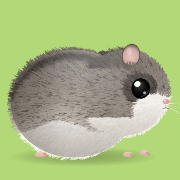
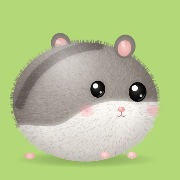
햄스터 키우기: 징그럽지 않게 말랑한 동글 햄스터로 다시 그림
Claude-Session: https://claude.ai/code/session_01Q9qMws47ZWFRTiFuZs99B2

diff --git a/hamster/index.html b/hamster/index.html
@@ -202,161 +202,150 @@ function softShadow(g, x, y, rx, ry, a) {
   g.fillStyle = gr; g.beginPath(); g.arc(0, 0, rx, 0, Math.PI * 2); g.fill(); g.restore();
 }
 
-/* 드워프 햄스터 (오른쪽을 봄). variant: open | sleep | cheek */
+/* 말랑한 3D 느낌의 동글 햄스터 (오른쪽 앞을 봄). variant: open | sleep | cheek */
 function drawHamster(variant) {
   const R = 2, [c, g] = mkCanvas(300, 220, R);
-  const rnd = rng(1234);
-  softShadow(g, 152, 197, 100, 13, .32);
-
-  const BX = 140, BY = 126, BRX = 84, BRY = 72;     // 몸
-  const HX = 206, HY = 112, HRX = 60, HRY = 57;     // 머리
-  const PX = 232, PY = 148, PRX = 31, PRY = 24;     // 볼주머니
+  const rnd = rng(99);
   const cheek = variant === 'cheek';
-  const sil = new Path2D();
-  sil.ellipse(BX, BY, BRX, BRY, 0, 0, Math.PI * 2);
-  sil.ellipse(HX, HY, HRX, HRY, -.08, 0, Math.PI * 2);
-  if (cheek) sil.ellipse(PX, PY, PRX, PRY, -.2, 0, Math.PI * 2);
-  const inside = (x, y) => g.isPointInPath(sil, x * R, y * R);
-  const inHead = (x, y) => ((x - HX) / HRX) ** 2 + ((y - HY) / HRY) ** 2 < 1;
-  const inPouch = (x, y) => cheek && ((x - PX) / PRX) ** 2 + ((y - PY) / PRY) ** 2 < 1;
+  softShadow(g, 150, 205, 100, 12, .3);
 
-  const C = {
-    stripe: [58, 52, 49], back: [122, 113, 105], backL: [158, 149, 139], side: [205, 198, 189],
-    white: [246, 243, 238], face: [128, 119, 111], muzzle: [242, 238, 232], eyeRing: [84, 77, 72]
-  };
-  function furCol(x, y) {
-    if (inPouch(x, y)) return mixc(C.muzzle, C.side, Math.max(0, (PY - y) / PRY) * .5);
-    const topBody = BY - BRY * Math.sqrt(Math.max(0, 1 - ((x - BX) / BRX) ** 2));
-    const belly = 156 + 8 * Math.sin((x - 40) / 18) - Math.max(0, x - 188) * .45;
-    if (inHead(x, y) && x > 160) {
-      const mz = Math.hypot((x - 248) / 1.05, (y - 137) / .85);
-      if (mz < 27 || y > 144) return C.muzzle;
-      if (Math.hypot((x - 229) / 1.15, y - 106) < 20) return C.eyeRing;
-      if (y < 80 && x < 224) return mixc(C.stripe, C.face, (x - 160) / 64);
-      return mixc(C.face, C.backL, Math.min(1, Math.max(0, (y - 70) / 64)) * .7);
-    }
-    if (y > belly) return C.white;
-    const d = y - topBody;
-    if (d > 3 && d < 17 && x < 188) return mixc(C.stripe, C.back, Math.abs(d - 10) / 9);
-    const t = Math.min(1, Math.max(0, d / (belly - topBody)));
-    return t > .72 ? mixc(C.backL, C.side, (t - .72) / .28) : mixc(C.back, C.backL, t / .72);
-  }
+  const ball = new Path2D();
+  ball.ellipse(148, 124, 102, 84, 0, 0, Math.PI * 2);
+  if (cheek) { ball.ellipse(232, 150, 34, 28, -.3, 0, Math.PI * 2); ball.ellipse(140, 152, 30, 26, .3, 0, Math.PI * 2); }
 
-  // 뒤쪽 귀 (머리 털 뒤로 숨게 먼저)
-  const ear = (x, y, s, rot, back) => {
+  // 귀 (뒤쪽 귀는 몸보다 먼저)
+  const ear = (x, y, s, rot) => {
     g.save(); g.translate(x, y); g.rotate(rot);
-    const gr = g.createRadialGradient(0, 3, 1, 0, 0, 15 * s);
-    gr.addColorStop(0, back ? '#c4a6a0' : '#e8c3bb'); gr.addColorStop(.62, back ? '#a08d87' : '#cfaaa2'); gr.addColorStop(1, '#5f5550');
-    g.fillStyle = gr; g.beginPath(); g.ellipse(0, 0, 11 * s, 14.5 * s, 0, 0, Math.PI * 2); g.fill();
-    g.strokeStyle = 'rgba(60,52,48,.55)'; g.lineWidth = 1.3; g.stroke();
-    g.fillStyle = 'rgba(255,255,255,.25)'; g.beginPath(); g.ellipse(-3 * s, -5 * s, 3 * s, 5 * s, -.3, 0, Math.PI * 2); g.fill();
+    let gr = g.createRadialGradient(-2, -3, 1, 0, 0, 17 * s);
+    gr.addColorStop(0, '#a49a92'); gr.addColorStop(1, '#7c736c');
+    g.fillStyle = gr; g.beginPath(); g.ellipse(0, 0, 15 * s, 17 * s, 0, 0, Math.PI * 2); g.fill();
+    gr = g.createRadialGradient(0, 2, 1, 0, 2, 11 * s);
+    gr.addColorStop(0, '#f6c9c4'); gr.addColorStop(1, '#e3a8a2');
+    g.fillStyle = gr; g.beginPath(); g.ellipse(0, 2.5 * s, 9.5 * s, 11.5 * s, 0, 0, Math.PI * 2); g.fill();
+    g.fillStyle = 'rgba(255,255,255,.4)'; g.beginPath(); g.ellipse(-3 * s, -3 * s, 3 * s, 4.5 * s, -.3, 0, Math.PI * 2); g.fill();
     g.restore();
   };
-  ear(180, 68, .85, -.55, true);
+  ear(114, 42, .92, -.4);
 
-  // 바탕색 (털 사이 틈 메우기)
-  for (let y = 40; y < 205; y += 2) for (let x = 30; x < 290; x += 2) {
-    if (!inside(x + 1, y + 1)) continue;
-    g.fillStyle = rgba(furCol(x + 1, y + 1)); g.fillRect(x, y, 2.3, 2.3);
-  }
-  // 털
-  const flow = (x, y) => {
-    if (inPouch(x, y)) { let dx = x - (PX - 6), dy = y - (PY - 4); const l = Math.hypot(dx, dy) || 1; return [dx / l, dy / l]; }
-    if (inHead(x, y) && x > 164) { let dx = x - 258, dy = y - 124; const l = Math.hypot(dx, dy) || 1; return [dx / l, dy / l]; }
-    let dx = -1, dy = (y - BY) / BRY * .95; const l = Math.hypot(dx, dy); return [dx / l, dy / l];
-  };
-  g.lineCap = 'round';
-  for (let i = 0; i < 26000; i++) {
-    const x = 30 + rnd() * 262, y = 40 + rnd() * 165;
-    if (!inside(x, y)) continue;
-    let col = furCol(x, y);
-    const j = (rnd() - .5) * 30; col = col.map(v => Math.max(0, Math.min(255, v + j)));
-    if (rnd() < .14 && col[0] < 215) col = col.map(v => v * .58);
-    const [dx, dy] = flow(x, y);
-    const len = 2.5 + rnd() * 5, bend = (rnd() - .5) * 1.6;
-    g.strokeStyle = rgba(col, .5 + rnd() * .45); g.lineWidth = .55 + rnd() * .7;
-    g.beginPath(); g.moveTo(x, y);
-    g.quadraticCurveTo(x + dx * len * .5 - dy * bend, y + dy * len * .5 + dx * bend, x + dx * len, y + dy * len); g.stroke();
-  }
-  // 바깥쪽 보송보송한 털
-  const edge = (cx, cy, rx, ry, n, others, back) => {
-    for (let k = 0; k < n; k++) {
-      const t = rnd() * Math.PI * 2, ex = cx + rx * Math.cos(t), ey = cy + ry * Math.sin(t);
-      if (ey > 188 || others.some(o => o(ex, ey))) continue;
-      const nx = Math.cos(t) / rx, ny = Math.sin(t) / ry, nl = Math.hypot(nx, ny), ox = nx / nl, oy = ny / nl;
-      const sx = ex - ox * 3, sy = ey - oy * 3, col = furCol(sx, sy), len = 2.5 + rnd() * 3.5;
-      const bx = back ? ox * .75 - .55 : ox, by = oy;
-      g.strokeStyle = rgba(col.map(v => Math.min(255, v + 8)), .6); g.lineWidth = .6 + rnd() * .6;
-      g.beginPath(); g.moveTo(sx, sy); g.quadraticCurveTo(sx + bx * len * .6 + (rnd() - .5), sy + by * len * .6, sx + bx * len, sy + by * len); g.stroke();
-    }
-  };
-  const inB = (x, y) => ((x - BX) / BRX) ** 2 + ((y - BY) / BRY) ** 2 < .93;
-  const inH = (x, y) => ((x - HX) / HRX) ** 2 + ((y - HY) / HRY) ** 2 < .93;
-  const inP = (x, y) => cheek && ((x - PX) / PRX) ** 2 + ((y - PY) / PRY) ** 2 < .93;
-  edge(BX, BY, BRX, BRY, 650, [inH, inP], true);
-  edge(HX, HY, HRX, HRY, 520, [inB, inP], false);
-  if (cheek) edge(PX, PY, PRX, PRY, 300, [inB, inH], false);
-
-  // 입체감: 위는 밝게, 아래와 엉덩이 쪽은 어둡게
-  g.save(); g.clip(sil);
-  let gr = g.createRadialGradient(160, 62, 8, 160, 84, 140);
-  gr.addColorStop(0, 'rgba(255,255,255,.28)'); gr.addColorStop(.45, 'rgba(255,255,255,.05)'); gr.addColorStop(1, 'rgba(255,255,255,0)');
+  // 몸 바탕
+  g.save(); g.clip(ball);
+  let gr = g.createRadialGradient(120, 70, 10, 150, 120, 130);
+  gr.addColorStop(0, '#b4aca3'); gr.addColorStop(.55, '#948b83'); gr.addColorStop(1, '#6f6761');
   g.fillStyle = gr; g.fillRect(0, 0, 300, 220);
-  gr = g.createLinearGradient(0, 128, 0, 200); gr.addColorStop(0, 'rgba(70,55,45,0)'); gr.addColorStop(1, 'rgba(70,55,45,.34)');
+  // 등 줄무늬 (부드럽게)
+  g.shadowColor = 'rgba(70,62,58,.9)'; g.shadowBlur = 14;
+  g.strokeStyle = 'rgba(78,70,66,.55)'; g.lineWidth = 13; g.lineCap = 'round';
+  g.beginPath(); g.moveTo(168, 44); g.bezierCurveTo(120, 46, 72, 74, 56, 128); g.stroke();
+  g.shadowBlur = 0;
+  // 하얀 배, 얼굴 아래쪽
+  g.shadowColor = 'rgba(250,247,242,1)'; g.shadowBlur = 16; g.fillStyle = '#faf7f2';
+  g.beginPath();
+  g.moveTo(40, 160);
+  g.bezierCurveTo(70, 150, 98, 168, 124, 150);
+  g.bezierCurveTo(150, 132, 160, 128, 176, 124);
+  g.bezierCurveTo(196, 120, 220, 126, 240, 124);
+  g.bezierCurveTo(258, 122, 262, 140, 262, 150);
+  g.lineTo(262, 230); g.lineTo(40, 230); g.closePath(); g.fill();
+  g.shadowBlur = 0;
+  // 눈 주변 살짝 진하게
+  [[166, 106, 18], [222, 110, 20]].forEach(([x, y, r]) => {
+    const e = g.createRadialGradient(x, y, 2, x, y, r);
+    e.addColorStop(0, 'rgba(90,82,78,.45)'); e.addColorStop(1, 'rgba(90,82,78,0)');
+    g.fillStyle = e; g.fillRect(x - r, y - r, r * 2, r * 2);
+  });
+  // 아주 고운 털결
+  for (let i = 0; i < 9000; i++) {
+    const x = 44 + rnd() * 220, y = 38 + rnd() * 175;
+    const dx = x - 196, dy = y - 132, l = Math.hypot(dx, dy) || 1;
+    const len = 1.8 + rnd() * 2.2;
+    g.strokeStyle = rnd() < .5 ? `rgba(255,255,255,${.06 + rnd() * .08})` : `rgba(60,50,45,${.05 + rnd() * .07})`;
+    g.lineWidth = .7; g.beginPath(); g.moveTo(x, y); g.lineTo(x + dx / l * len, y + dy / l * len); g.stroke();
+  }
+  // 입체감
+  gr = g.createRadialGradient(118, 62, 6, 128, 80, 120);
+  gr.addColorStop(0, 'rgba(255,255,255,.45)'); gr.addColorStop(.4, 'rgba(255,255,255,.08)'); gr.addColorStop(1, 'rgba(255,255,255,0)');
   g.fillStyle = gr; g.fillRect(0, 0, 300, 220);
-  gr = g.createLinearGradient(56, 0, 130, 0); gr.addColorStop(0, 'rgba(45,38,32,.3)'); gr.addColorStop(1, 'rgba(45,38,32,0)');
+  gr = g.createLinearGradient(0, 140, 0, 210);
+  gr.addColorStop(0, 'rgba(90,75,65,0)'); gr.addColorStop(1, 'rgba(90,75,65,.28)');
+  g.fillStyle = gr; g.fillRect(0, 0, 300, 220);
+  gr = g.createRadialGradient(148, 124, 70, 148, 124, 108);
+  gr.addColorStop(0, 'rgba(60,50,45,0)'); gr.addColorStop(1, 'rgba(60,50,45,.22)');
   g.fillStyle = gr; g.fillRect(0, 0, 300, 220);
   if (cheek) {
-    gr = g.createRadialGradient(PX - 8, PY - 10, 4, PX, PY, PRX + 4);
-    gr.addColorStop(0, 'rgba(255,255,255,.2)'); gr.addColorStop(.8, 'rgba(255,255,255,0)'); gr.addColorStop(1, 'rgba(90,70,60,.25)');
-    g.fillStyle = gr; g.beginPath(); g.ellipse(PX, PY, PRX, PRY, -.2, 0, Math.PI * 2); g.fill();
+    [[232, 150, 34], [140, 152, 30]].forEach(([x, y, r]) => {
+      const p = g.createRadialGradient(x - 8, y - 10, 3, x, y, r);
+      p.addColorStop(0, 'rgba(255,255,255,.55)'); p.addColorStop(1, 'rgba(255,255,255,0)');
+      g.fillStyle = p; g.beginPath(); g.arc(x, y, r, 0, Math.PI * 2); g.fill();
+    });
   }
   g.restore();
 
-  // 앞발, 뒷발
-  const paw = (x, y, rx) => {
-    const p = g.createLinearGradient(0, y - 4, 0, y + 4); p.addColorStop(0, '#f2cfc8'); p.addColorStop(1, '#d9a79e');
-    g.fillStyle = p; g.beginPath(); g.ellipse(x, y, rx, 3.8, 0, 0, Math.PI * 2); g.fill();
-    g.strokeStyle = 'rgba(170,110,100,.6)'; g.lineWidth = .7;
-    for (let k = -1; k <= 1; k++) { g.beginPath(); g.moveTo(x + rx * .55 + k * 1.6, y - 1.5); g.lineTo(x + rx * .9 + k * 1.6, y + 2.5); g.stroke(); }
+  // 가장자리 보송보송 (짧고 부드럽게)
+  const img = g.getImageData(0, 0, c.width, c.height).data;
+  const px = (x, y) => { const i = ((y * R | 0) * c.width + (x * R | 0)) * 4; return [img[i], img[i + 1], img[i + 2]]; };
+  const fuzz = (cx, cy, rx, ry, n, skip) => {
+    for (let k = 0; k < n; k++) {
+      const t = rnd() * Math.PI * 2, ex = cx + rx * Math.cos(t), ey = cy + ry * Math.sin(t);
+      if (ey > 196 || (skip && skip(ex, ey))) continue;
+      const nx = Math.cos(t) / rx, ny = Math.sin(t) / ry, nl = Math.hypot(nx, ny), ox = nx / nl, oy = ny / nl;
+      const col = px(ex - ox * 4, ey - oy * 4), len = 2 + rnd() * 2.6;
+      g.strokeStyle = `rgba(${col[0]},${col[1]},${col[2]},.55)`; g.lineWidth = .9;
+      g.beginPath(); g.moveTo(ex - ox * 1.5, ey - oy * 1.5); g.lineTo(ex + ox * len, ey + oy * len); g.stroke();
+    }
   };
-  paw(96, 194, 8.5); paw(212, 194, 6.5); paw(234, 192, 6);
+  fuzz(148, 124, 102, 84, 700, cheek ? (x, y) => ((x - 232) / 34) ** 2 + ((y - 150) / 28) ** 2 < 1 || ((x - 140) / 30) ** 2 + ((y - 152) / 26) ** 2 < 1 : null);
+  if (cheek) { fuzz(232, 150, 34, 28, 160, (x, y) => ((x - 148) / 102) ** 2 + ((y - 124) / 84) ** 2 < 1); fuzz(140, 152, 30, 26, 120, (x, y) => ((x - 148) / 102) ** 2 + ((y - 124) / 84) ** 2 < 1); }
 
-  // 앞쪽 귀
-  ear(216, 62, 1.05, .18, false);
-  for (let k = 0; k < 70; k++) {             // 귀 뿌리 털
-    const x = 205 + rnd() * 23, y = 71 + rnd() * 7, col = furCol(x, y + 4);
-    g.strokeStyle = rgba(col, .8); g.lineWidth = .7; g.beginPath(); g.moveTo(x, y + 5); g.lineTo(x + (rnd() - .5) * 3, y - 1); g.stroke();
-  }
+  ear(204, 46, 1, .22);
+
+  // 볼 홍조
+  [[150, 136, 14], [244, 136, 13]].forEach(([x, y, r]) => {
+    const b = g.createRadialGradient(x, y, 1, x, y, r);
+    b.addColorStop(0, 'rgba(255,150,160,.45)'); b.addColorStop(1, 'rgba(255,150,160,0)');
+    g.fillStyle = b; g.beginPath(); g.ellipse(x, y, r, r * .62, 0, 0, Math.PI * 2); g.fill();
+  });
 
   // 눈
-  if (variant === 'sleep') {
-    g.strokeStyle = '#2a2420'; g.lineWidth = 2.6; g.lineCap = 'round';
-    g.beginPath(); g.moveTo(218, 107); g.quadraticCurveTo(229, 115, 240, 106); g.stroke();
-    g.strokeStyle = 'rgba(42,36,32,.6)'; g.lineWidth = 1.2;
-    g.beginPath(); g.moveTo(220, 109); g.lineTo(217, 112.5); g.moveTo(226, 112); g.lineTo(225, 116); g.stroke();
-  } else {
-    gr = g.createRadialGradient(226, 100, 1, 229, 106, 14.5);
-    gr.addColorStop(0, '#45403c'); gr.addColorStop(.55, '#0e0d0c'); gr.addColorStop(1, '#000');
-    g.fillStyle = gr; g.beginPath(); g.ellipse(229, 106, 12.5, 13.5, .05, 0, Math.PI * 2); g.fill();
-    g.strokeStyle = 'rgba(150,160,170,.35)'; g.lineWidth = 1.3; g.beginPath(); g.arc(229, 106, 10.5, .25, 1.5); g.stroke();
-    g.fillStyle = 'rgba(255,255,255,.96)'; g.beginPath(); g.ellipse(224.6, 100, 4.4, 3.8, -.4, 0, Math.PI * 2); g.fill();
-    g.fillStyle = 'rgba(255,255,255,.65)'; g.beginPath(); g.arc(234.2, 111.8, 1.9, 0, Math.PI * 2); g.fill();
-  }
-  // 코, 입
-  gr = g.createRadialGradient(261, 122, .5, 262, 123.5, 5);
-  gr.addColorStop(0, '#f0b6b4'); gr.addColorStop(1, '#c98886');
-  g.fillStyle = gr; g.beginPath(); g.ellipse(262.5, 123.5, 4.4, 3.4, .1, 0, Math.PI * 2); g.fill();
-  g.fillStyle = 'rgba(255,255,255,.7)'; g.beginPath(); g.arc(261.2, 122.2, 1.1, 0, Math.PI * 2); g.fill();
-  g.strokeStyle = 'rgba(150,100,98,.75)'; g.lineWidth = .9;
-  g.beginPath(); g.moveTo(262.5, 127); g.lineTo(262.5, 130.5);
-  g.moveTo(258.5, 132.5); g.quadraticCurveTo(261, 134.2, 262.5, 130.5); g.quadraticCurveTo(264, 134.2, 266.5, 132.5); g.stroke();
-  // 수염
-  g.lineWidth = .55;
-  [[288, 117], [291, 126], [289, 135], [284, 142]].forEach(([x, y], k) => {
-    g.strokeStyle = k % 2 ? 'rgba(255,255,255,.75)' : 'rgba(210,205,200,.7)';
-    g.beginPath(); g.moveTo(258, 128); g.quadraticCurveTo((258 + x) / 2, (128 + y) / 2 - 3, x, y); g.stroke();
+  const eye = (x, y, rx, ry) => {
+    if (variant === 'sleep') {
+      g.strokeStyle = '#3a312c'; g.lineWidth = 2.6; g.lineCap = 'round';
+      g.beginPath(); g.moveTo(x - rx, y); g.quadraticCurveTo(x, y + ry * .75, x + rx, y); g.stroke();
+      return;
+    }
+    let e = g.createRadialGradient(x - rx * .3, y - ry * .35, 1, x, y, ry * 1.1);
+    e.addColorStop(0, '#4a4440'); e.addColorStop(.5, '#141210'); e.addColorStop(1, '#000');
+    g.fillStyle = e; g.beginPath(); g.ellipse(x, y, rx, ry, 0, 0, Math.PI * 2); g.fill();
+    g.strokeStyle = 'rgba(170,180,190,.35)'; g.lineWidth = 1.4; g.beginPath(); g.ellipse(x, y, rx * .82, ry * .82, 0, .3, 1.5); g.stroke();
+    g.fillStyle = '#fff'; g.beginPath(); g.ellipse(x - rx * .32, y - ry * .38, rx * .36, ry * .3, -.4, 0, Math.PI * 2); g.fill();
+    g.fillStyle = 'rgba(255,255,255,.75)'; g.beginPath(); g.arc(x + rx * .38, y + ry * .38, rx * .16, 0, Math.PI * 2); g.fill();
+  };
+  eye(166, 106, 10.5, 12);
+  eye(222, 110, 12.5, 14);
+
+  // 주둥이, 코, 입
+  gr = g.createRadialGradient(198, 133, .5, 199, 134.5, 5.5);
+  gr.addColorStop(0, '#ffc4c4'); gr.addColorStop(1, '#e09a9a');
+  g.fillStyle = gr; g.beginPath(); g.ellipse(199, 134.5, 5.2, 3.8, 0, 0, Math.PI * 2); g.fill();
+  g.fillStyle = 'rgba(255,255,255,.75)'; g.beginPath(); g.arc(197.5, 133.2, 1.3, 0, Math.PI * 2); g.fill();
+  g.strokeStyle = 'rgba(160,110,105,.8)'; g.lineWidth = 1.1; g.lineCap = 'round';
+  g.beginPath(); g.moveTo(199, 138.5); g.lineTo(199, 142);
+  g.moveTo(193.5, 143.5); g.quadraticCurveTo(196.5, 146, 199, 142); g.quadraticCurveTo(201.5, 146, 204.5, 143.5); g.stroke();
+  // 수염 (연하게)
+  g.lineWidth = .6;
+  [[[184, 140], [160, 134]], [[184, 143], [158, 145]], [[214, 140], [240, 132]], [[214, 143], [242, 145]]].forEach(([a, b]) => {
+    g.strokeStyle = 'rgba(255,255,255,.7)'; g.beginPath(); g.moveTo(a[0], a[1]); g.quadraticCurveTo((a[0] + b[0]) / 2, (a[1] + b[1]) / 2 - 2, b[0], b[1]); g.stroke();
   });
+
+  // 앞발
+  const paw = (x, y) => {
+    const p = g.createRadialGradient(x - 1.5, y - 1.5, .5, x, y, 7);
+    p.addColorStop(0, '#ffe0dc'); p.addColorStop(1, '#eab3ab');
+    g.fillStyle = p; g.beginPath(); g.ellipse(x, y, 7, 5, 0, 0, Math.PI * 2); g.fill();
+    g.strokeStyle = 'rgba(200,140,130,.55)'; g.lineWidth = .8;
+    for (let k = -1; k <= 1; k++) { g.beginPath(); g.moveTo(x + k * 2.6, y + 1); g.lineTo(x + k * 2.6, y + 4.2); g.stroke(); }
+  };
+  paw(176, 199); paw(214, 199);
+  if (!cheek) { const p = g.createRadialGradient(70, 200, .5, 70, 200, 8); p.addColorStop(0, '#f6cfc9'); p.addColorStop(1, '#dea59d'); g.fillStyle = p; g.beginPath(); g.ellipse(70, 200, 8, 4.5, 0, 0, Math.PI * 2); g.fill(); }
   return c;
 }
 
@@ -754,7 +743,7 @@ function place() {
   ham.style.width = tw + 'px';
   const h = w * 220 / 300;
   hamHb.style.height = h + 'px';
-  ham.style.transform = `translate(${hm.x - tw / 2}px, ${hm.y - h * 0.895}px)`;
+  ham.style.transform = `translate(${hm.x - tw / 2}px, ${hm.y - h * 0.93}px)`;
   ham.style.zIndex = Math.round(hm.y) + 1;
   ham.querySelector('.flip').style.transform = `scaleX(${hm.dir})`;
 }
